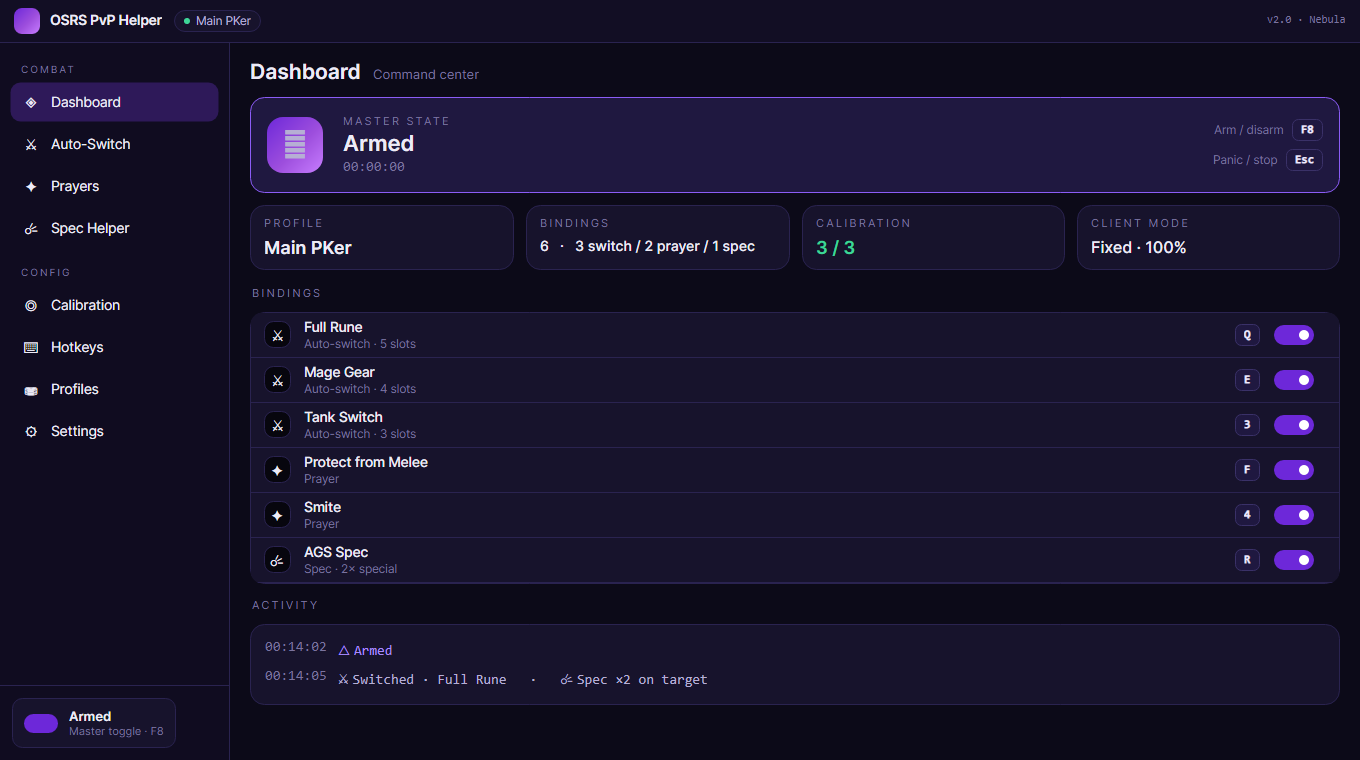
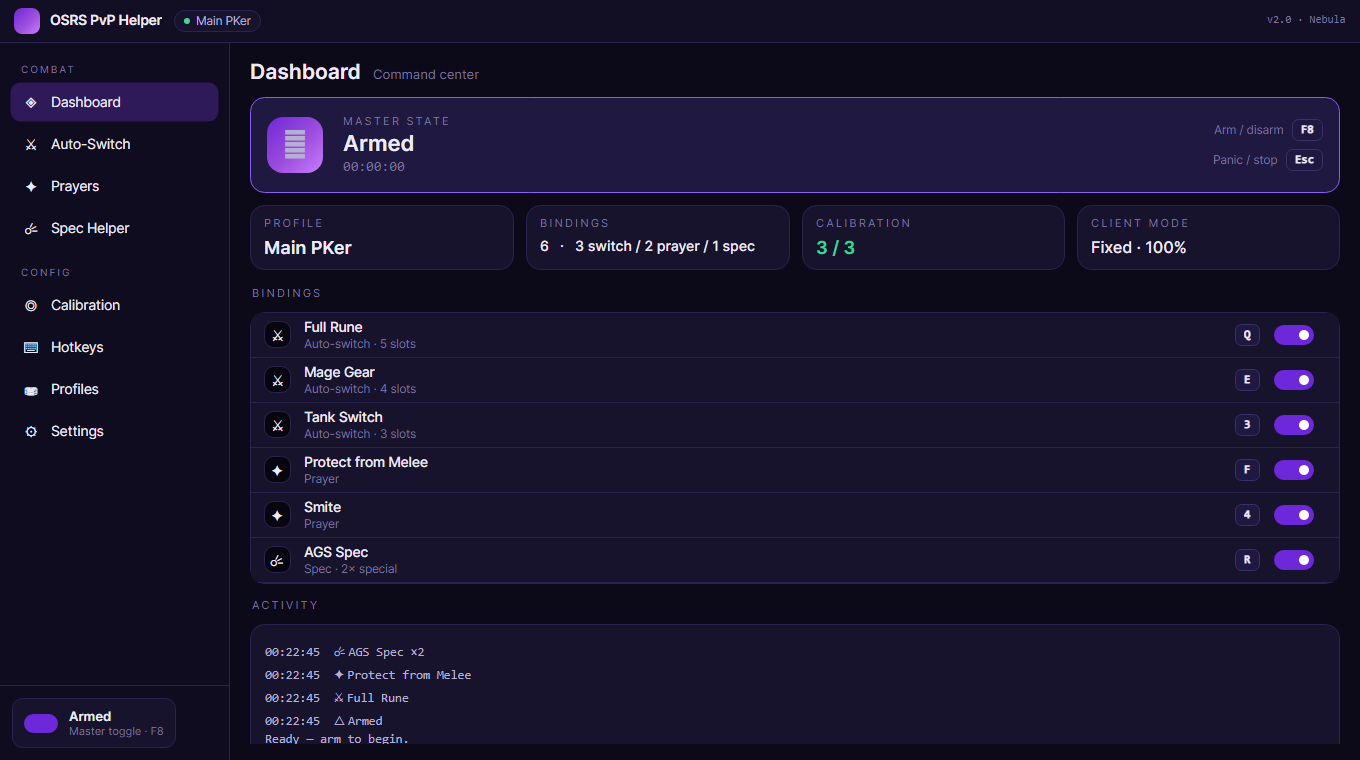
Address Copilot review comments
- ActionEngine: only sleep the pre-click delay on actual clicks (return
  moves no longer add a phantom delay).
- Humanizer + ActionEngine: implement the "Curved paths" toggle (slight
  quadratic Bézier arc) so the setting actually does something.
- ArmController: make the single-flight guard atomic (Interlocked CAS)
  instead of a racy check-then-set.
- Dashboard: replace the hardcoded activity text with a real, data-bound
  feed — SessionState.Activity, fed by arm/disarm and engine-returned
  action descriptions.
- OrderedSlotSelection.Set: de-duplicate while preserving order (+ test).
- KeyMap: map F13–F24 (were silently dropped on capture).
- PostMessageInputSender: trace swallowed failures via Debug.WriteLine.
- HotkeyToken: fix the XML doc to say mouse codes are Win32 VKs.

(ProfileStore blank-name overwrite: not reachable from the UI — names are
always set by New/Duplicate — so left deterministic.)

Build clean; 11 tests pass.

Changed region(s): [[0.1853, 0.8474, 0.3706, 0.9987], [0.4015, 0.8776, 0.525, 0.9079]]

diff --git a/src/PvPHelper.Core/Automation/ActionEngine.cs b/src/PvPHelper.Core/Automation/ActionEngine.cs
@@ -5,11 +5,12 @@ using PvPHelper.Core.Models;
 namespace PvPHelper.Core.Automation;
 
 /// <summary>
-/// Executes bound actions for a released hotkey, preserving the legacy console ordering
+/// Executes bound actions for a released hotkey, preserving the legacy ordering
 /// (prayer → switch → spec). All timings come from the profile's <see cref="AntiBanSettings"/>
 /// (and per-spec <see cref="SpecBinding.SpecBarDelayMs"/>) rather than hardcoded constants.
 /// Side effects go through <see cref="IInputSender"/> and delays through an injected sleep,
-/// so ordering and timing are unit-testable.
+/// so ordering and timing are unit-testable. Returns a short description of what ran, for the
+/// activity feed.
 /// </summary>
 public sealed class ActionEngine
 {
@@ -27,15 +28,18 @@ public sealed class ActionEngine
     }
 
     /// <summary>Resolve every binding that matches the released key and run them in order.</summary>
-    public void Handle(Profile profile, HotkeyToken key)
+    public IReadOnlyList<string> Handle(Profile profile, HotkeyToken key)
     {
-        if (!key.IsBound) return;
-        var swappedPrayers = HandlePrayers(profile, key);
-        var swappedItems = HandleSwitches(profile, key, swappedPrayers);
-        HandleSpecs(profile, key, swappedItems, swappedPrayers);
+        var log = new List<string>();
+        if (!key.IsBound) return log;
+
+        var swappedPrayers = HandlePrayers(profile, key, log);
+        var swappedItems = HandleSwitches(profile, key, swappedPrayers, log);
+        HandleSpecs(profile, key, swappedItems, swappedPrayers, log);
+        return log;
     }
 
-    private bool HandlePrayers(Profile p, HotkeyToken key)
+    private bool HandlePrayers(Profile p, HotkeyToken key, List<string> log)
     {
         if (!p.Calibration.PrayerReady) return false;
         var ab = p.AntiBan;
@@ -53,12 +57,13 @@ public sealed class ActionEngine
             _sleep(ab.TabDelayMs);
             SmoothMove(point, ab, click: true);
             if (ab.ReturnToOldPos) SmoothMove(old, ab, click: false);
+            log.Add($"✦ {PrayerCatalog.DisplayName(pr.Prayer)}");
         }
 
         return swapped;
     }
 
-    private bool HandleSwitches(Profile p, HotkeyToken key, bool swappedPrayers)
+    private bool HandleSwitches(Profile p, HotkeyToken key, bool swappedPrayers, List<string> log)
     {
         if (!p.Calibration.InventoryReady) return false;
         var ab = p.AntiBan;
@@ -84,12 +89,13 @@ public sealed class ActionEngine
 
             var ret = sw.ReturnToOldPosOverride ?? ab.ReturnToOldPos;
             if (ret) SmoothMove(old, ab, click: false);
+            log.Add($"⚔ {(string.IsNullOrWhiteSpace(sw.Name) ? "Switch" : sw.Name)}");
         }
 
         return swapped;
     }
 
-    private void HandleSpecs(Profile p, HotkeyToken key, bool swappedItems, bool swappedPrayers)
+    private void HandleSpecs(Profile p, HotkeyToken key, bool swappedItems, bool swappedPrayers, List<string> log)
     {
         if (!p.Calibration.InventoryReady || !p.Calibration.SpecReady) return;
         var ab = p.AntiBan;
@@ -122,6 +128,7 @@ public sealed class ActionEngine
 
             SmoothMove(old, ab, click: true);
             if (ab.ReturnToOldPos) SmoothMove(old, ab, click: false);
+            log.Add($"☄ {(string.IsNullOrWhiteSpace(sp.Name) ? "Spec" : sp.Name)} ×{sp.SpecTimes}");
         }
     }
 
@@ -135,14 +142,19 @@ public sealed class ActionEngine
     {
         var end = Humanizer.Jitter(target, ab.JitterRadius, _rng);
         var start = _input.GetCursor();
-        foreach (var pt in Humanizer.Path(start, end, Math.Max(1, ab.Speed)))
+        foreach (var pt in Humanizer.Path(start, end, Math.Max(1, ab.Speed), ab.CurvedPaths, _rng))
         {
             _input.SetCursor(pt);
             _sleep(ab.StepDelayMs);
         }
 
         _input.SetCursor(end);
-        _sleep(ab.PreClickDelayMs);
-        if (click) _input.LeftClick(end);
+
+        // Only settle + click when we're actually clicking; return moves shouldn't add click delay.
+        if (click)
+        {
+            _sleep(ab.PreClickDelayMs);
+            _input.LeftClick(end);
+        }
     }
 }

diff --git a/src/PvPHelper.Core/Automation/Humanizer.cs b/src/PvPHelper.Core/Automation/Humanizer.cs
@@ -12,20 +12,46 @@ public static class Humanizer
         return new ScreenPoint(p.X + rng.Next(-radius, radius + 1), p.Y + rng.Next(-radius, radius + 1));
     }
 
-    /// <summary>Interpolate <paramref name="steps"/> points from start toward end (exclusive of start).</summary>
-    public static IReadOnlyList<ScreenPoint> Path(ScreenPoint start, ScreenPoint end, int steps)
+    /// <summary>
+    /// Interpolate <paramref name="steps"/> points from start toward end (exclusive of start).
+    /// When <paramref name="curved"/> is set, follow a slight quadratic Bézier arc instead of a
+    /// straight line (control point offset perpendicular to the path by a small random amount).
+    /// </summary>
+    public static IReadOnlyList<ScreenPoint> Path(ScreenPoint start, ScreenPoint end, int steps, bool curved = false, Random? rng = null)
     {
         steps = Math.Max(1, steps);
         var points = new List<ScreenPoint>(steps);
-        double dx = (end.X - start.X) / (double)steps;
-        double dy = (end.Y - start.Y) / (double)steps;
-        double x = start.X;
-        double y = start.Y;
+
+        if (curved && steps > 2)
+        {
+            rng ??= new Random();
+            double dx = end.X - start.X, dy = end.Y - start.Y;
+            double len = Math.Sqrt(dx * dx + dy * dy);
+            double offset = len * 0.12 * (rng.NextDouble() * 2 - 1); // up to +/-12% of the distance
+            double nx = len > 0 ? -dy / len : 0;
+            double ny = len > 0 ? dx / len : 0;
+            double cx = (start.X + end.X) / 2.0 + nx * offset;
+            double cy = (start.Y + end.Y) / 2.0 + ny * offset;
+
+            for (var i = 1; i <= steps; i++)
+            {
+                double t = (double)i / steps, u = 1 - t;
+                double x = u * u * start.X + 2 * u * t * cx + t * t * end.X;
+                double y = u * u * start.Y + 2 * u * t * cy + t * t * end.Y;
+                points.Add(new ScreenPoint((int)Math.Round(x), (int)Math.Round(y)));
+            }
+
+            return points;
+        }
+
+        double sx = (end.X - start.X) / (double)steps;
+        double sy = (end.Y - start.Y) / (double)steps;
+        double px = start.X, py = start.Y;
         for (var i = 0; i < steps; i++)
         {
-            x += dx;
-            y += dy;
-            points.Add(new ScreenPoint((int)Math.Round(x), (int)Math.Round(y)));
+            px += sx;
+            py += sy;
+            points.Add(new ScreenPoint((int)Math.Round(px), (int)Math.Round(py)));
         }
 
         return points;

diff --git a/src/PvPHelper.App/Services/ArmController.cs b/src/PvPHelper.App/Services/ArmController.cs
@@ -1,3 +1,4 @@
+using System.Threading;
 using System.Threading.Tasks;
 using Avalonia.Threading;
 using PvPHelper.Core.Automation;
@@ -9,14 +10,15 @@ namespace PvPHelper.App.Services;
 /// <summary>
 /// Bridges the global hotkey hook to the action engine. The hook runs for the app's
 /// lifetime so the arm/panic keys always work; combat actions only fire while armed.
-/// A single-flight guard prevents a second hotkey from interleaving an in-progress sequence.
+/// An atomic single-flight guard prevents a second hotkey from interleaving an in-progress
+/// sequence, and executed actions are pushed to the activity feed.
 /// </summary>
 public sealed class ArmController
 {
     private readonly SessionState _session;
     private readonly IHotkeyHook _hook;
     private readonly ActionEngine _engine;
-    private volatile bool _busy;
+    private int _busy; // 0 = idle, 1 = a sequence is running
 
     public ArmController(SessionState session, IHotkeyHook hook, ActionEngine engine)
     {
@@ -56,13 +58,26 @@ public sealed class ArmController
             return;
         }
 
-        if (!_session.IsArmed || _busy) return;
+        if (!_session.IsArmed) return;
 
-        _busy = true;
+        // Atomic single-flight guard: bail if a sequence is already running.
+        if (Interlocked.CompareExchange(ref _busy, 1, 0) != 0) return;
+
         Task.Run(() =>
         {
-            try { _engine.Handle(profile, ev.Token); }
-            finally { _busy = false; }
+            try
+            {
+                var actions = _engine.Handle(profile, ev.Token);
+                if (actions.Count > 0)
+                    Dispatcher.UIThread.Post(() =>
+                    {
+                        foreach (var action in actions) _session.Log(action);
+                    });
+            }
+            finally
+            {
+                Interlocked.Exchange(ref _busy, 0);
+            }
         });
     }
 }

diff --git a/src/PvPHelper.App/Services/SessionState.cs b/src/PvPHelper.App/Services/SessionState.cs
@@ -1,4 +1,5 @@
 using System;
+using System.Collections.ObjectModel;
 using Avalonia.Threading;
 using CommunityToolkit.Mvvm.ComponentModel;
 using CommunityToolkit.Mvvm.Input;
@@ -45,6 +46,18 @@ public partial class SessionState : ObservableObject
 
         _timer = new DispatcherTimer { Interval = TimeSpan.FromSeconds(1) };
         _timer.Tick += (_, _) => RunningTime = (DateTime.Now - _armedAt).ToString(@"hh\:mm\:ss");
+
+        Activity.Add("Ready — arm to begin.");
+    }
+
+    /// <summary>Most-recent-first activity log shown on the Dashboard. Mutate on the UI thread.</summary>
+    public ObservableCollection<string> Activity { get; } = new();
+
+    /// <summary>Prepend a timestamped line to the activity feed (capped).</summary>
+    public void Log(string message)
+    {
+        Activity.Insert(0, $"{DateTime.Now:HH:mm:ss}  {message}");
+        while (Activity.Count > 60) Activity.RemoveAt(Activity.Count - 1);
     }
 
     public string StoreDirectory => _store.Directory;
@@ -83,6 +96,7 @@ public partial class SessionState : ObservableObject
     partial void OnIsArmedChanged(bool value)
     {
         ArmLabel = value ? "Armed" : "Disarmed";
+        Log(value ? "△ Armed" : "⛔ Disarmed");
         if (value)
         {
             _armedAt = DateTime.Now;

diff --git a/src/PvPHelper.Core/Input/PostMessageInputSender.cs b/src/PvPHelper.Core/Input/PostMessageInputSender.cs
@@ -53,10 +53,11 @@ public sealed class PostMessageInputSender : IInputSender
         {
             action(ProcessInput.FromWindow(hwnd), hwnd);
         }
-        catch
+        catch (Exception ex)
         {
-            // Window changed/closed or the UI thread has no focus for keyboard posting;
-            // ignore so one failed post can't tear down an action sequence.
+            // Window changed/closed or the UI thread has no focus for keyboard posting; don't let
+            // one failed post tear down an action sequence, but leave a trace for diagnosis.
+            System.Diagnostics.Debug.WriteLine($"[PostMessageInputSender] post to 0x{hwnd:X} failed: {ex.Message}");
         }
     }
 }

diff --git a/src/PvPHelper.Core/Models/Primitives.cs b/src/PvPHelper.Core/Models/Primitives.cs
@@ -14,8 +14,9 @@ public enum HotkeySource
 }
 
 /// <summary>
-/// A single bindable hotkey. For <see cref="HotkeySource.Keyboard"/> the code is a Win32
-/// virtual-key code; for <see cref="HotkeySource.Mouse"/> it is a button number (1=L,2=R,3=M,4,5).
+/// A single bindable hotkey. For both sources the code is a Win32 virtual-key code:
+/// keyboard keys use their VK; mouse buttons use the mouse VKs — 1=Left, 2=Right, 4=Middle,
+/// 5=XButton1 ("Mouse 4"), 6=XButton2 ("Mouse 5").
 /// </summary>
 public readonly record struct HotkeyToken(HotkeySource Source, int Code)
 {

diff --git a/tools/ScreenshotTool/Program.cs b/tools/ScreenshotTool/Program.cs
@@ -77,9 +77,12 @@ internal static class Program
             Capture(Slug(nav.Label));
         }
 
-        // Armed dashboard (glow state)
+        // Armed dashboard (glow state) — seed a few activity lines for a lively shot.
         main.CombatNav[0].SelectCommand.Execute(null);
         session.IsArmed = true;
+        session.Log("⚔ Full Rune");
+        session.Log("✦ Protect from Melee");
+        session.Log("☄ AGS Spec ×2");
         Dispatcher.UIThread.RunJobs();
         Capture("dashboard-armed");
         session.IsArmed = false;

diff --git a/src/PvPHelper.App/Services/KeyMap.cs b/src/PvPHelper.App/Services/KeyMap.cs
@@ -10,7 +10,7 @@ public static class KeyMap
         >= Key.A and <= Key.Z => 0x41 + (key - Key.A),
         >= Key.D0 and <= Key.D9 => 0x30 + (key - Key.D0),
         >= Key.NumPad0 and <= Key.NumPad9 => 0x60 + (key - Key.NumPad0),
-        >= Key.F1 and <= Key.F12 => 0x70 + (key - Key.F1),
+        >= Key.F1 and <= Key.F24 => 0x70 + (key - Key.F1),
         Key.Space => 0x20,
         Key.Tab => 0x09,
         Key.Enter => 0x0D,

diff --git a/src/PvPHelper.Core/Models/OrderedSlotSelection.cs b/src/PvPHelper.Core/Models/OrderedSlotSelection.cs
@@ -30,7 +30,9 @@ public sealed class OrderedSlotSelection
     public void Set(IEnumerable<int> slots)
     {
         _order.Clear();
-        _order.AddRange(slots);
+        foreach (var slot in slots)
+            if (!_order.Contains(slot))
+                _order.Add(slot); // de-duplicate while preserving order (guards hand-edited profiles)
     }
 
     public void Clear() => _order.Clear();

diff --git a/src/PvPHelper.Tests/OrderedSlotSelectionTests.cs b/src/PvPHelper.Tests/OrderedSlotSelectionTests.cs
@@ -31,4 +31,13 @@ public class OrderedSlotSelectionTests
         Assert.Equal(0, s.OrdinalOf(2));
         Assert.Equal(2, s.OrdinalOf(9)); // 9 renumbered from 3rd to 2nd
     }
+
+    [Fact]
+    public void Set_Deduplicates_Preserving_Order()
+    {
+        var s = new OrderedSlotSelection();
+        s.Set(new[] { 5, 2, 5, 9, 2 });
+
+        Assert.Equal(new[] { 5, 2, 9 }, s.Order);
+    }
 }
